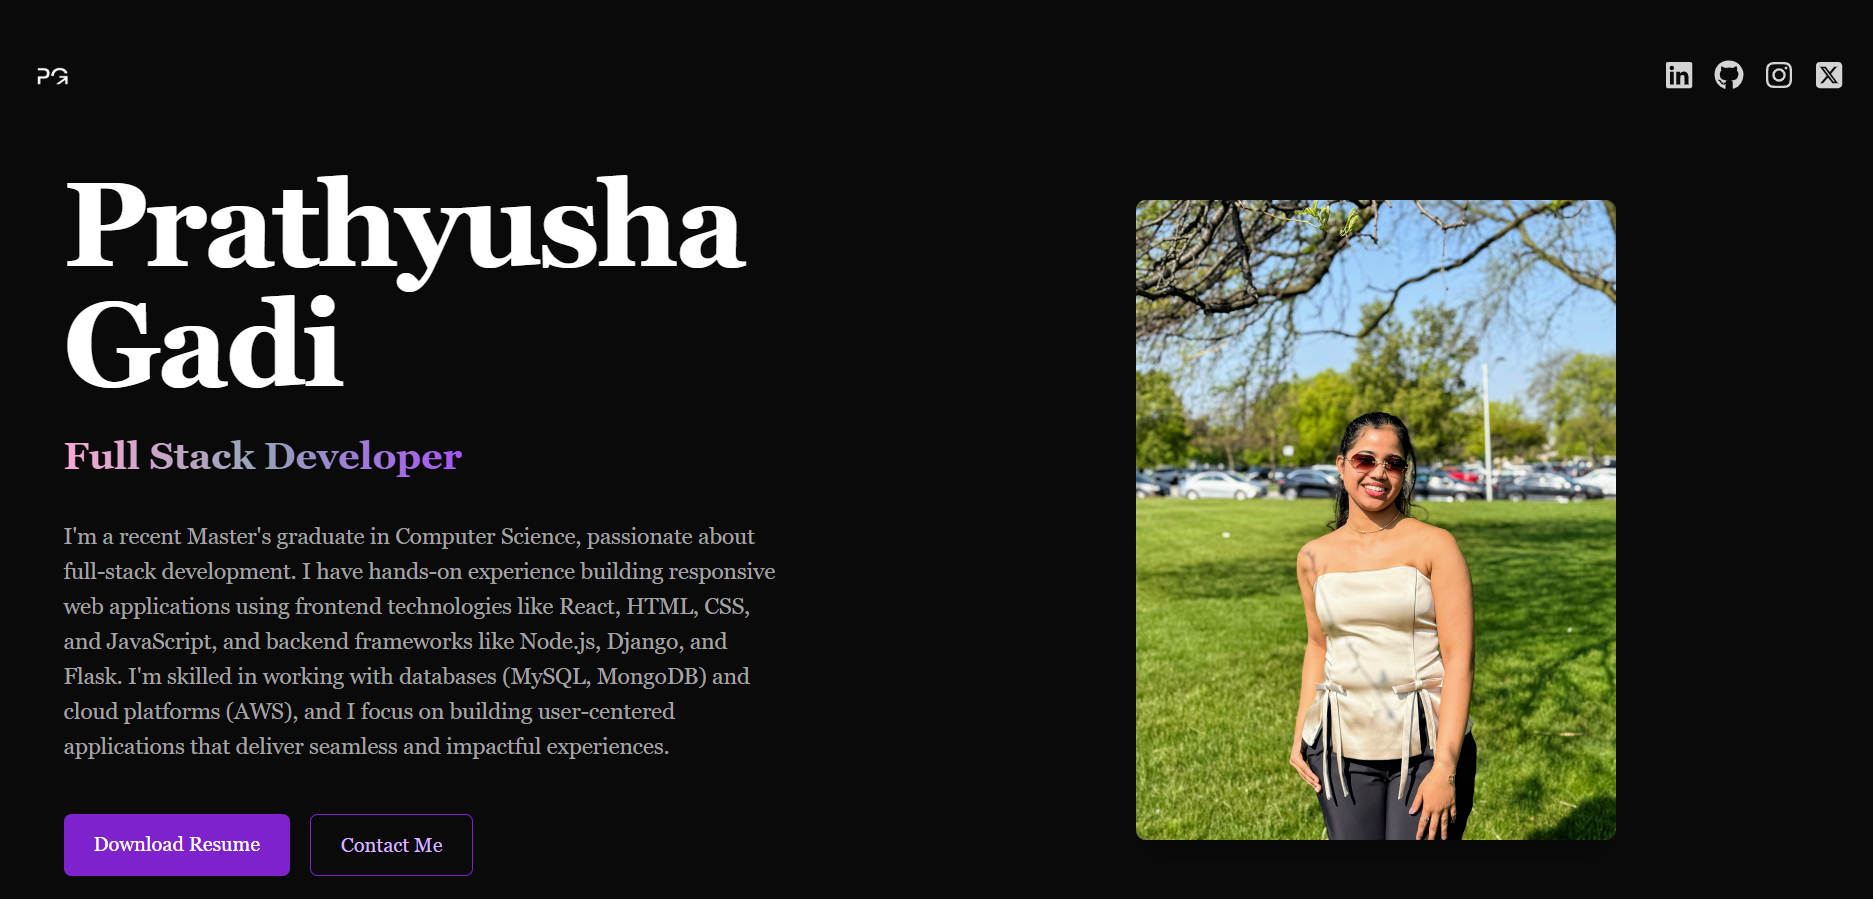
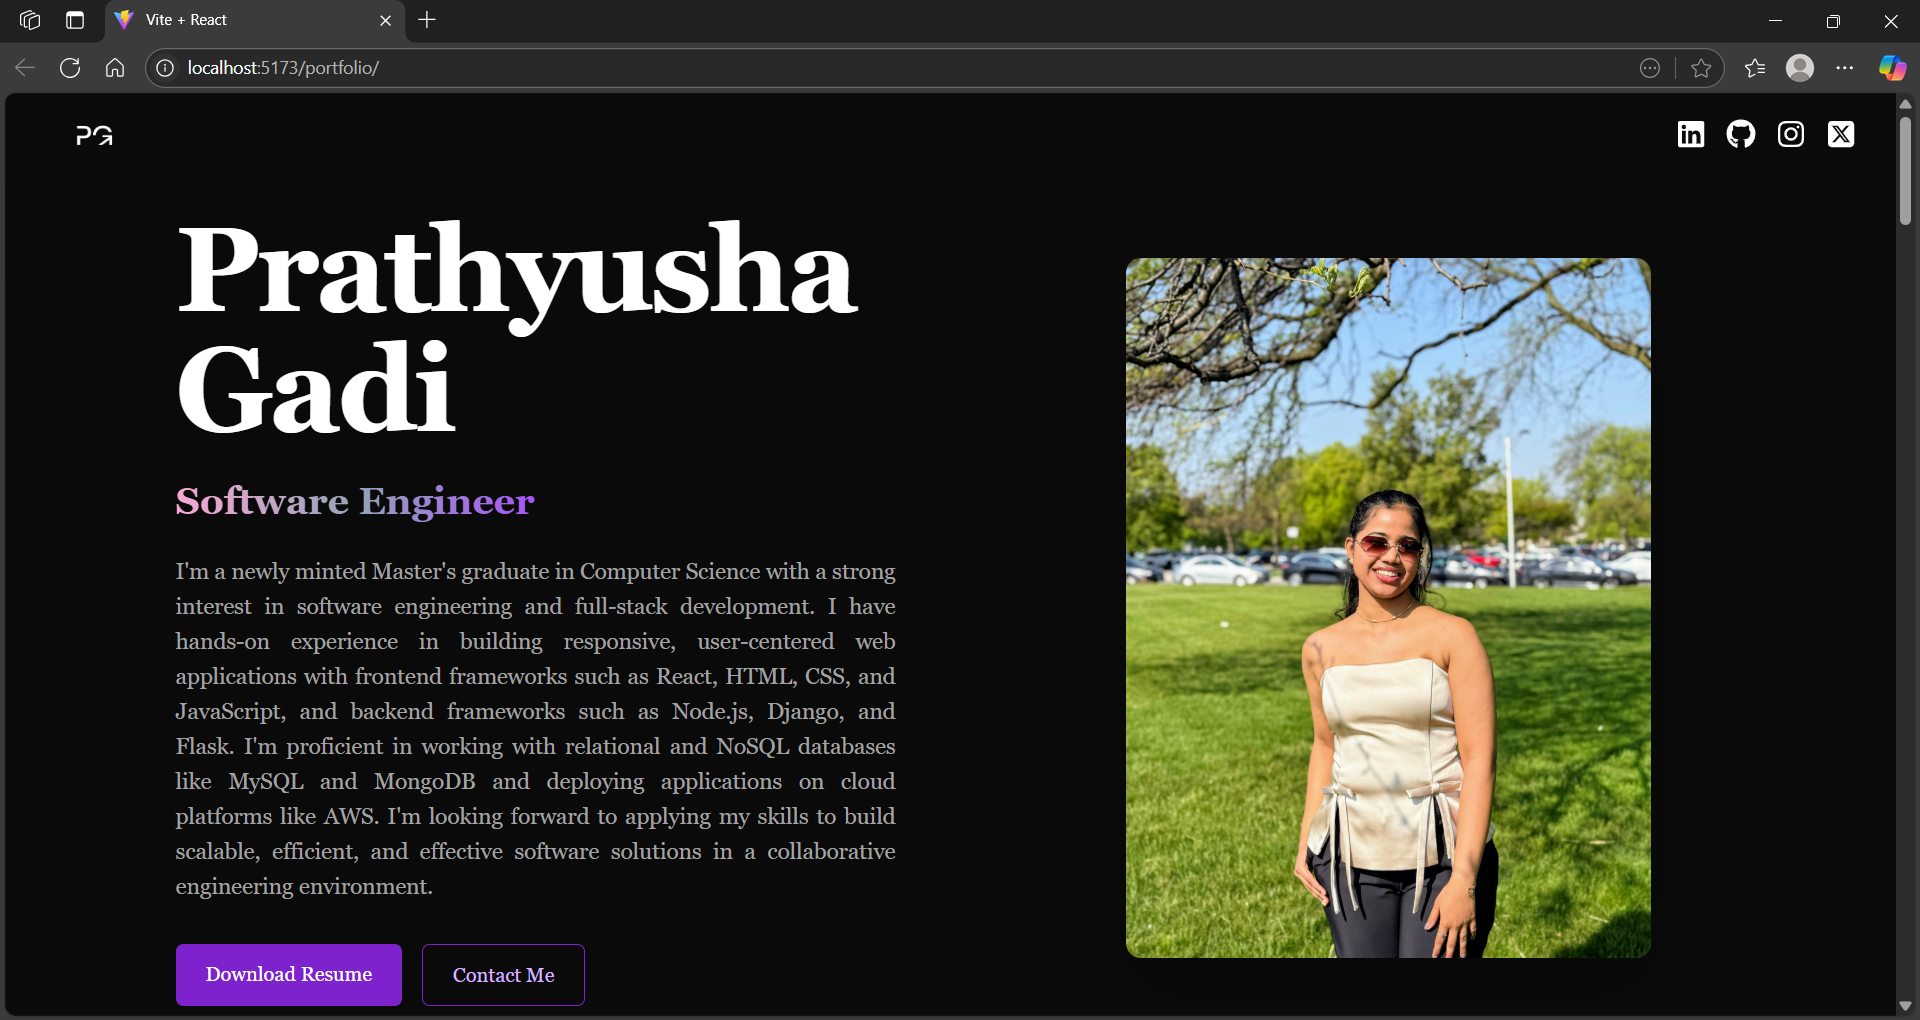
role edit

diff --git a/src/constants/index.js b/src/constants/index.js
@@ -28,15 +28,13 @@ import attele from '../assets/testimonials/attele.png';
 
 import TripTrek from "../assets/projects/project1/TripTrek.mp4"
 import indinenne from "../assets/projects/project2/indinenne.mp4"
-export const HERO_CONTENT = `I'm a recent Master's graduate in Computer Science, passionate about full-stack development. 
-          I have hands-on experience building responsive web applications using frontend technologies like React, HTML, CSS, and JavaScript, and backend frameworks like Node.js, Django, and Flask. 
-          I'm skilled in working with databases (MySQL, MongoDB) and cloud platforms (AWS), and I focus on building user-centered applications that deliver seamless and impactful experiences.`;
+export const HERO_CONTENT = `I'm a newly minted Master's graduate in Computer Science with a strong interest in software engineering and full-stack development. I have hands-on experience in building responsive, user-centered web applications with frontend frameworks such as React, HTML, CSS, and JavaScript, and backend frameworks such as Node.js, Django, and Flask. I'm proficient in working with relational and NoSQL databases like MySQL and MongoDB and deploying applications on cloud platforms like AWS. I'm looking forward to applying my skills to build scalable, efficient, and effective software solutions in a collaborative engineering environment.`;
 
-export const ABOUT_TEXT = `Curiosity drives everything I do. Whether it’s debugging a tricky backend issue or designing intuitive user flows, I enjoy understanding how things work and how to make them better. My journey in tech has taken me from developing dynamic web apps to integrating cloud services and deploying scalable solutions—always with a focus on creating meaningful user experiences.
+export const ABOUT_TEXT = `Curiosity drives everything I do. Whether debugging that frustrating backend bug or designing user flows that are just plain intuitive, I am fascinated by understanding how things tick and how I can make them better. My journey through the tech world has involved me moving from creating dynamic web applications to incorporating cloud services and rolling out scalable solutions—always to create significant user experiences.
 
-With a Master’s in Computer Science and a knack for full-stack development, I bring both depth and versatility to every project. I thrive in collaborative environments where ideas flow freely, feedback fuels growth, and every line of code contributes to something bigger.
+With a Master's in Computer Science and a full-stack development skillset, I am both profound and adaptable in all that I do. I thrive in team environments where ideas ever-flow, feedback births growth, and each line of code is something more.
 
-Outside the screen, I’m always up for exploring new tools, learning emerging technologies, and sharing what I know with others. Whether it’s a side project or a team-driven application, I aim to build software that solves real problems and feels good to use.
+Outside of the screen, I'm eager to learn new tools, discover new technologies, and share what I've learned with others. Team-based applications or side projects, I want to make software that is fun and beneficial to use.
 
 Let’s connect, collaborate, and create.`;
 
@@ -156,6 +154,6 @@ export const CERTIFICATIONS = [
 
 export const CONTACT = {
   address: "Chicago IL 60616 ",
-  phoneNo: "+1 (815)482-5848",
-  email: "gadiprathyusha2712@gmail.com",
+  phoneNo: "+19802770015",
+  email: "pg4852630@gmail.com",
 };

diff --git a/src/components/About.jsx b/src/components/About.jsx
@@ -1,15 +1,16 @@
-import aboutImg from "../assets/about.jpg";
+import aboutImg from "../assets/about.png";
 import { ABOUT_TEXT } from "../constants";
 import { motion } from "framer-motion";
 
 const About = () => {
   return (
     <div className="border-b border-neutral-900 pb-4">
-      <h2 className="my-20 text-center text-4xl">
-        About
-        <span className="text-neutral-500"> Me</span>
+      <h2 className="my-20 text-center text-4xl font-bold tracking-tight">
+        About <span className="text-neutral-500">Me</span>
       </h2>
       <div className="flex flex-wrap">
+        
+        {/* Image Section */}
         <motion.div
           whileInView={{ opacity: 1, x: 0 }}
           initial={{ opacity: 0, x: -100 }}
@@ -17,17 +18,21 @@ const About = () => {
           className="w-full lg:w-1/2 lg:p-8"
         >
           <div className="flex items-center justify-center">
-            <img className="rounded-2xl" src={aboutImg} alt="about" />
+            <img className="rounded-2xl shadow-2xl w-80 md:w-[420px] object-cover" src={aboutImg} alt="about" />
           </div>
         </motion.div>
+        
+        {/* Text Section */}
         <motion.div
           whileInView={{ opacity: 1, x: 0 }}
           initial={{ opacity: 0, x: 100 }}
           transition={{ duration: 0.5 }}
-          className="w-full lg:w-1/2"
+          className="w-full lg:w-1/2 pl-4 md:pl-5 lg:pl-5"
         >
           <div className="flex justify-center lg:justify-start">
-            <p className="my-2 max-w-xl py-6">{ABOUT_TEXT}</p>
+            <p className="my-2 max-w-xl py-6 text-neutral-300 text-lg leading-relaxed text-justify">
+              {ABOUT_TEXT}
+            </p>
           </div>
         </motion.div>
       </div>

diff --git a/src/components/Hero.jsx b/src/components/Hero.jsx
@@ -13,11 +13,11 @@ const container = (delay) => ({
 
 const Hero = () => {
   return (
-    <section className="border-b border-neutral-900 pb-16 lg:pb-36">
+    <section className="border-b border-neutral-900 pb-20 lg:pb-48">
       <div className="flex flex-wrap items-center justify-between">
         
         {/* Left Content */}
-        <div className="w-full lg:w-1/2">
+        <div className="w-full lg:w-1/2 pl-4 md:pl-12 lg:pl-20">
           <div className="flex flex-col items-center lg:items-start text-center lg:text-left">
             
             {/* Name */}
@@ -37,7 +37,7 @@ const Hero = () => {
               animate="visible"
               className="bg-gradient-to-r from-pink-300 via-slate-400 to-purple-500 bg-clip-text text-2xl md:text-3xl text-transparent font-semibold mb-4"
             >
-              Full Stack Developer
+              Software Engineer
             </motion.h2>
 
             {/* Description */}
@@ -45,7 +45,7 @@ const Hero = () => {
               variants={container(1)}
               initial="hidden"
               animate="visible"
-              className="text-base md:text-lg text-neutral-400 leading-relaxed max-w-xl py-4"
+              className="text-base md:text-lg text-neutral-400 leading-relaxed max-w-xl py-2 text-justify"
             >
               {HERO_CONTENT}
             </motion.p>
@@ -84,7 +84,7 @@ const Hero = () => {
               transition={{ duration: 1, delay: 1.2 }}
               src={profilePic}
               alt="Prathyusha Gadi"
-              className="rounded-lg shadow-xl w-72 md:w-96"
+              className="rounded-xl shadow-2xl w-80 md:w-[420px] object-cover"
             />
           </div>
         </div>

diff --git a/src/components/Navbar.jsx b/src/components/Navbar.jsx
@@ -6,12 +6,12 @@ import { FaInstagram } from "react-icons/fa";
 
 const Navbar = () => {
   return (
-    <nav className="mb-18 flex items-center justify-between py-6">
+    <nav className="mt-2 mb-6 flex items-center justify-between py-2 px-4">
       <div className="flex flex-shrink-0 items-center">
-        <img className="mx-6 w-12" src={logo} alt="logo" />
+        <img className="mx-7 w-14" src={logo} alt="logo" />
       </div>
-      <div className="m-8 flex items-center justify-center gap-4 text-2xl">
-      <a
+      <div className="m-4 flex items-center justify-center gap-4 text-2xl text-white">
+        <a
           href="https://www.linkedin.com/in/prathyusha-g-2b911123a/"
           target="_blank"
           rel="noopener noreferrer"
@@ -19,7 +19,7 @@ const Navbar = () => {
         >
           <FaLinkedin />
         </a>
-      <a
+        <a
           href="https://github.com/PEK-1"
           target="_blank"
           rel="noopener noreferrer"
